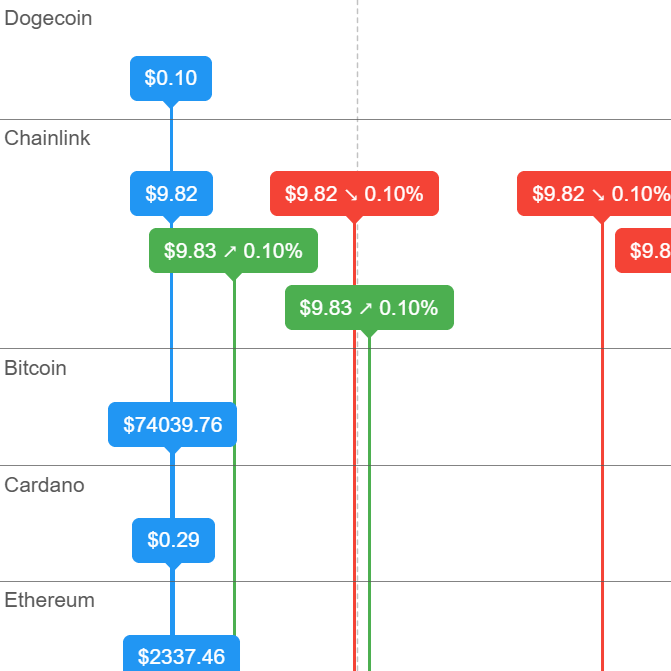
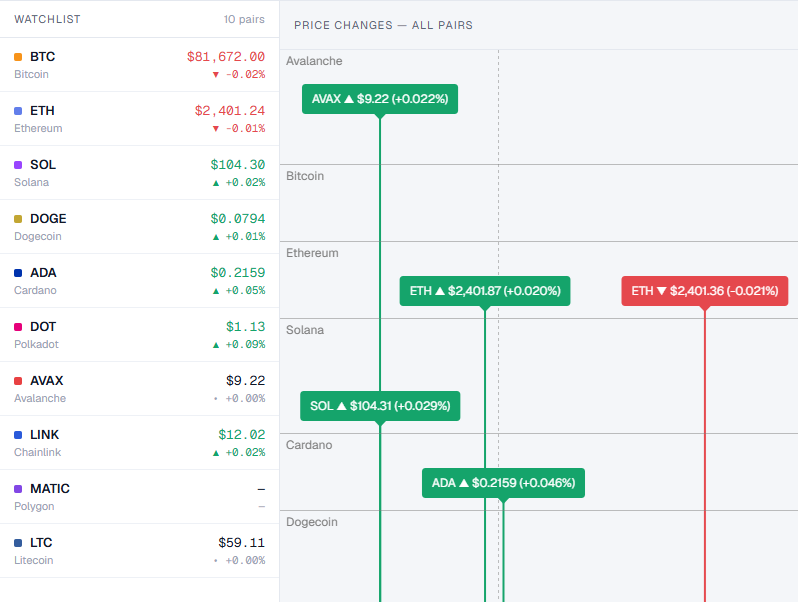
updating example card images

diff --git a/site/examples.html b/site/examples.html
@@ -63,20 +63,20 @@
       <p class="eyebrow">Applications</p>
       <p class="group-intro">Complete, self-contained example apps showing the timeline working as one component inside a larger interface, each with its own layout, controls and surrounding panels.</p>
       <div class="ex-grid">
+        <a href="examples/project-planner.html" class="ex-card">
+          <img src="images/examples/pp_tile.png" alt="Gantt-style project planner with phases, dependency arrows and progress bars" loading="lazy">
+          <div class="ex-card-body">
+            <h3>Project Planner</h3>
+            <p>A Gantt-style planner with a collapsible phase tree, dependency arrows, progress bars and a task detail drawer. Zoom presets jump between week, quarter and the full plan.</p>
+            <div class="tag-row"><span class="tag">Dependencies</span><span class="tag">Progress bars</span><span class="tag">Grouping</span><span class="tag">Zoom presets</span><span class="tag">Notes</span></div>
+          </div>
+        </a>
         <a href="examples/dashboard.html" class="ex-card">
           <img src="images/examples/dashboard_tile.png" alt="Fleet maintenance dashboard with KPI cards above a grouped timeline" loading="lazy">
           <div class="ex-card-body">
             <h3>Fleet Maintenance Dashboard</h3>
             <p>A full maintenance-scheduling app. KPI cards, region filters, a detail/edit panel and a right-click menu all wired to the timeline.</p>
             <div class="tag-row"><span class="tag">Selection</span><span class="tag">Live updates</span><span class="tag">Context menu</span><span class="tag">Filtering</span><span class="tag">Detail panel</span></div>
-          </div>
-        </a>
-        <a href="examples/project-planner.html" class="ex-card">
-          <img src="images/examples/planner_tile.svg" alt="Gantt-style project planner with phases, dependency arrows and progress bars" loading="lazy">
-          <div class="ex-card-body">
-            <h3>Project Planner</h3>
-            <p>A Gantt-style planner with a collapsible phase tree, dependency arrows, progress bars and a task detail drawer. Zoom presets jump between week, quarter and the full plan.</p>
-            <div class="tag-row"><span class="tag">Dependencies</span><span class="tag">Progress bars</span><span class="tag">Grouping</span><span class="tag">Zoom presets</span><span class="tag">Notes</span></div>
           </div>
         </a>
         <a href="examples/streaming-data.html" class="ex-card">
@@ -96,7 +96,7 @@
           </div>
         </a>
         <a href="examples/dashboard-builder.html" class="ex-card">
-          <img src="images/examples/dashboard_builder_tile.svg" alt="Drag-and-drop dashboard builder with a timeline widget among other cards" loading="lazy">
+          <img src="images/examples/db_tile.png" alt="Drag-and-drop dashboard builder with a timeline widget among other cards" loading="lazy">
           <div class="ex-card-body">
             <h3>Dashboard Builder</h3>
             <p>A drag-and-drop dashboard composer. Drop in a timeline widget, resize it in the grid and repoint it at a different data source from the inspector, all live.</p>
